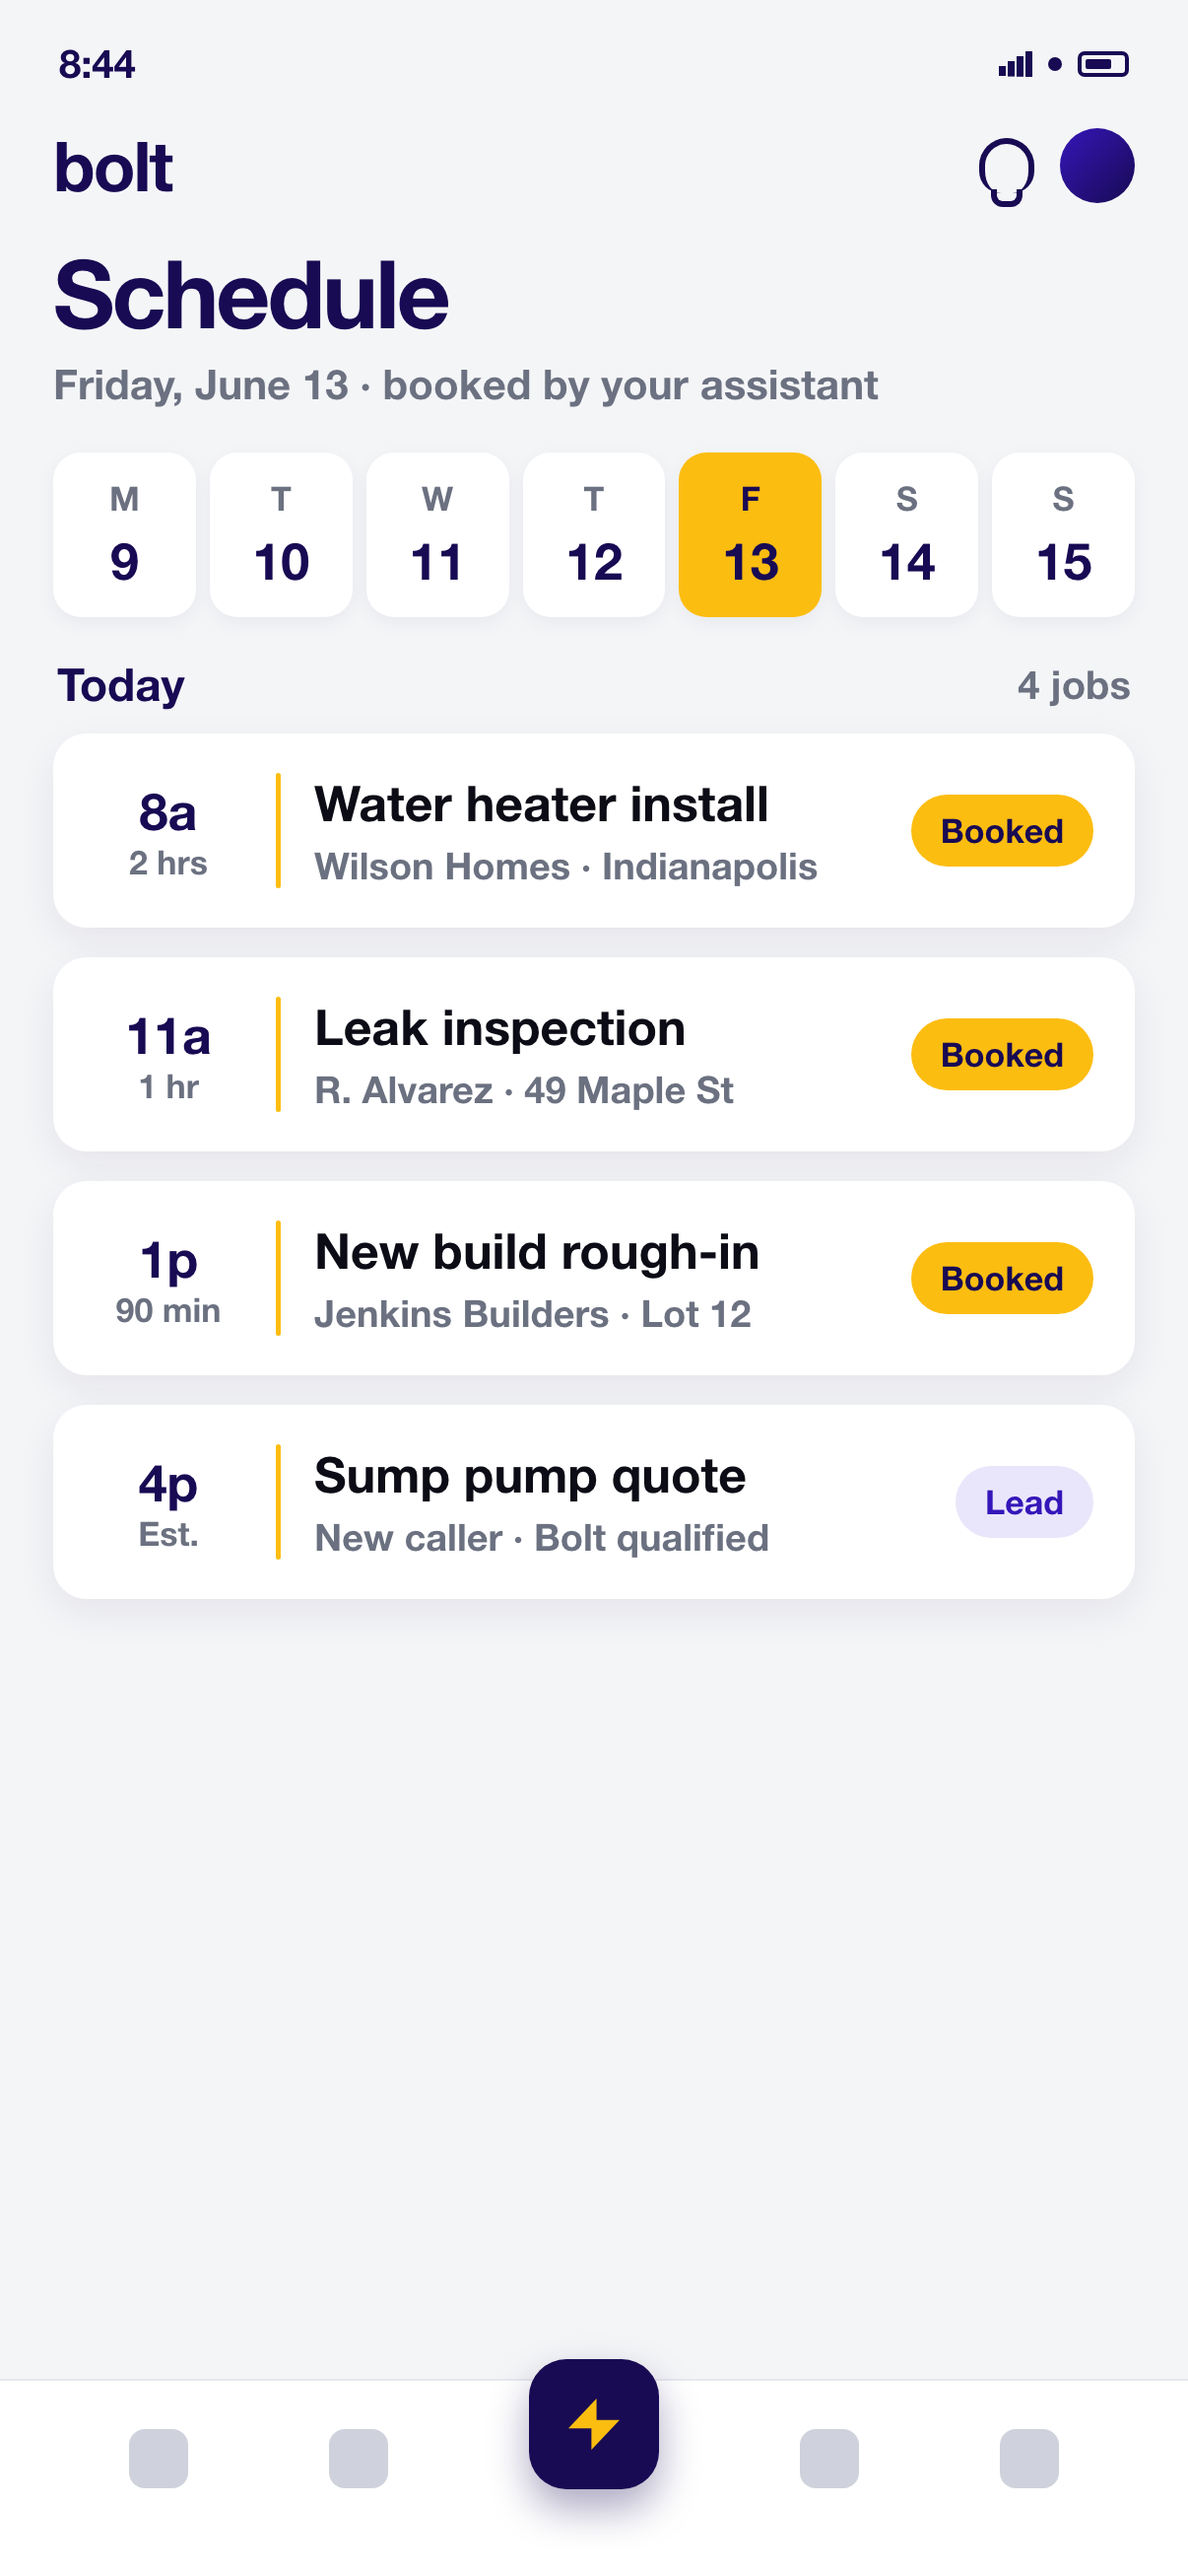
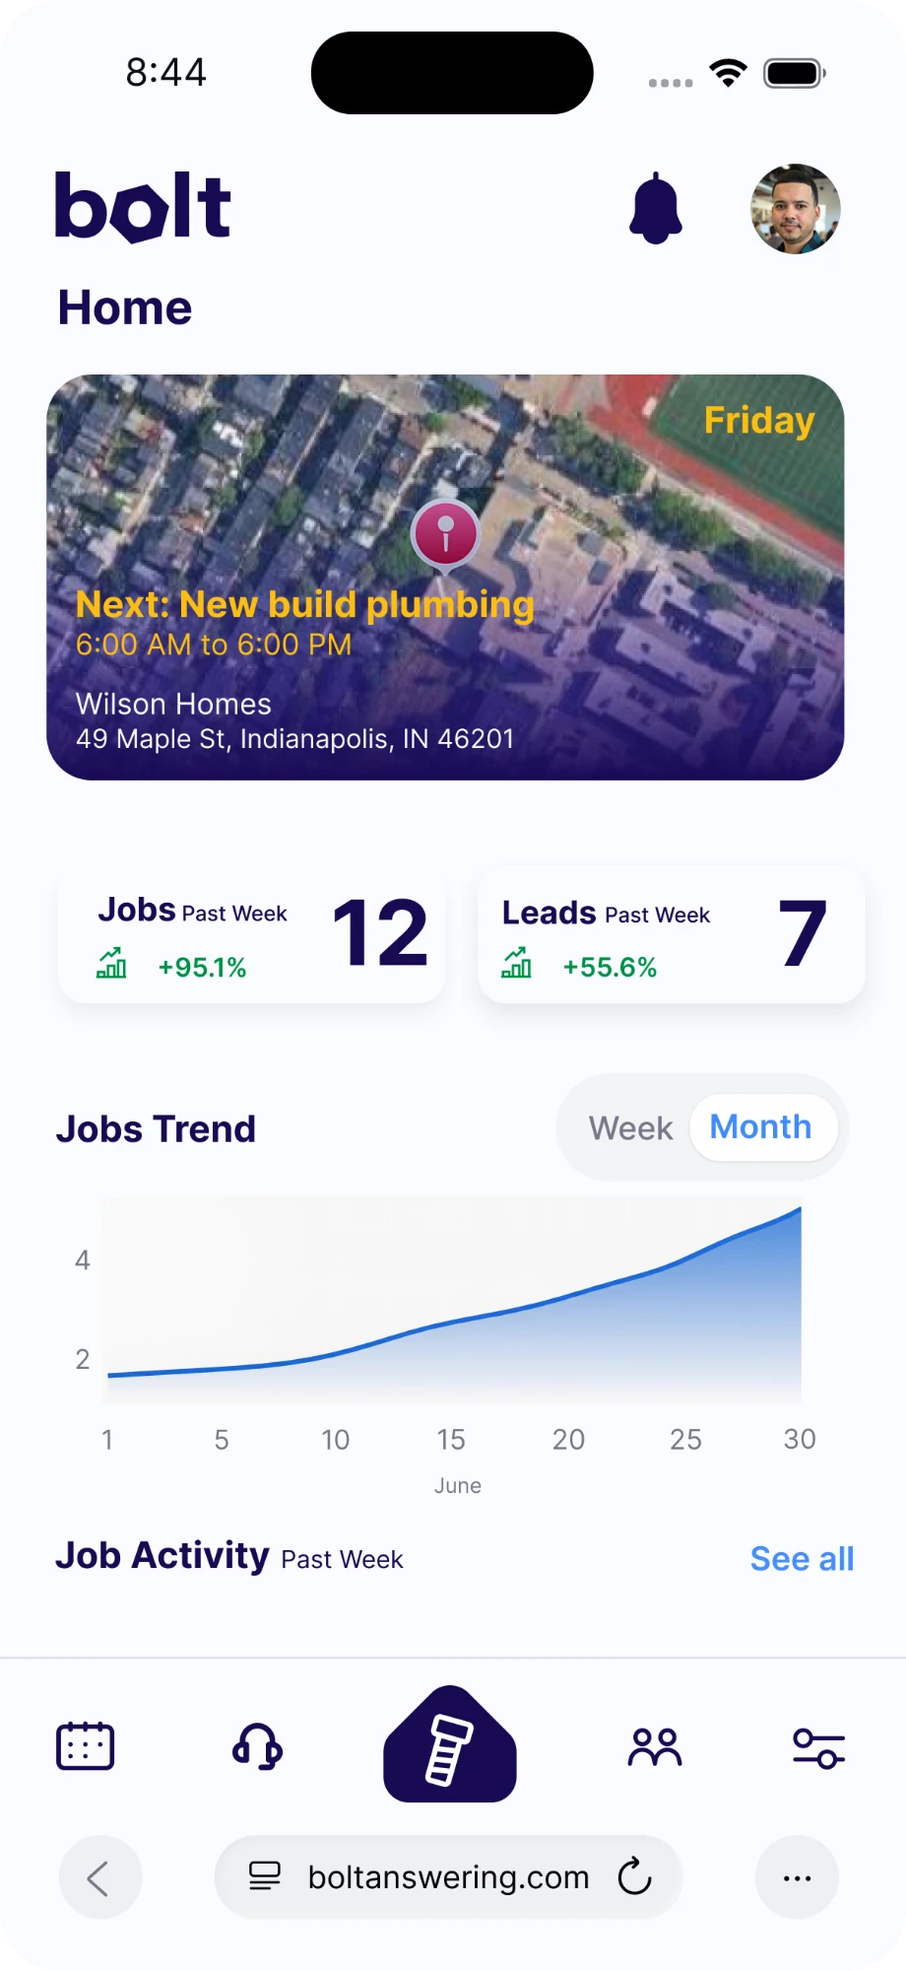
Use real Bolt Home screenshot on the plumber 3D phone
Replaces the placeholder screen mock with the actual Bolt app Home dashboard
(920x2000, ~3x the phone's on-screen size). The screen image uses
object-fit: fill so the screenshot's edges meet the bezel's inner edges
exactly, with no crop or gap. Bumps the screen asset to ?v=2.

diff --git a/plumbing.html b/plumbing.html
@@ -69,7 +69,7 @@
     <img class="tpfeat__mobileimg" src="assets/plumb-feat-mobile.png?v=2" alt="Set your schedule. We&rsquo;ll fill it" />
     <div class="tpfeat__inner">
       <div class="tpfeat__media rv" data-rd="240">
-        <div class="phone3d" role="img" aria-label="Interactive 3D phone showing the Bolt schedule — drag to rotate">
+        <div class="phone3d" role="img" aria-label="Interactive 3D phone showing the Bolt app home screen — drag to rotate">
           <div class="phone3d__device">
             <div class="phone3d__body"></div>
             <span class="phone3d__btn phone3d__btn--pwr"></span>
@@ -77,7 +77,7 @@
             <span class="phone3d__btn phone3d__btn--vdn"></span>
             <div class="phone3d__bezel">
               <div class="phone3d__screen">
-                <img class="phone3d__screenimg" src="assets/plumb-feat-screen.png?v=1" alt="Bolt app schedule for Friday with four jobs booked by the assistant" />
+                <img class="phone3d__screenimg" src="assets/plumb-feat-screen.png?v=2" alt="Bolt app Home dashboard showing the day's schedule, jobs and leads" />
               </div>
               <div class="phone3d__glass"></div>
             </div>

diff --git a/phone3d.css b/phone3d.css
@@ -68,7 +68,8 @@
   overflow: hidden;
   background: #000;
 }
-.phone3d__screenimg { width: 100%; height: 100%; object-fit: cover; display: block; }
+/* fill (not cover) so the screenshot's edges meet the bezel's inner edges exactly. */
+.phone3d__screenimg { width: 100%; height: 100%; object-fit: fill; display: block; }
 
 /* Glass highlight */
 .phone3d__glass {
